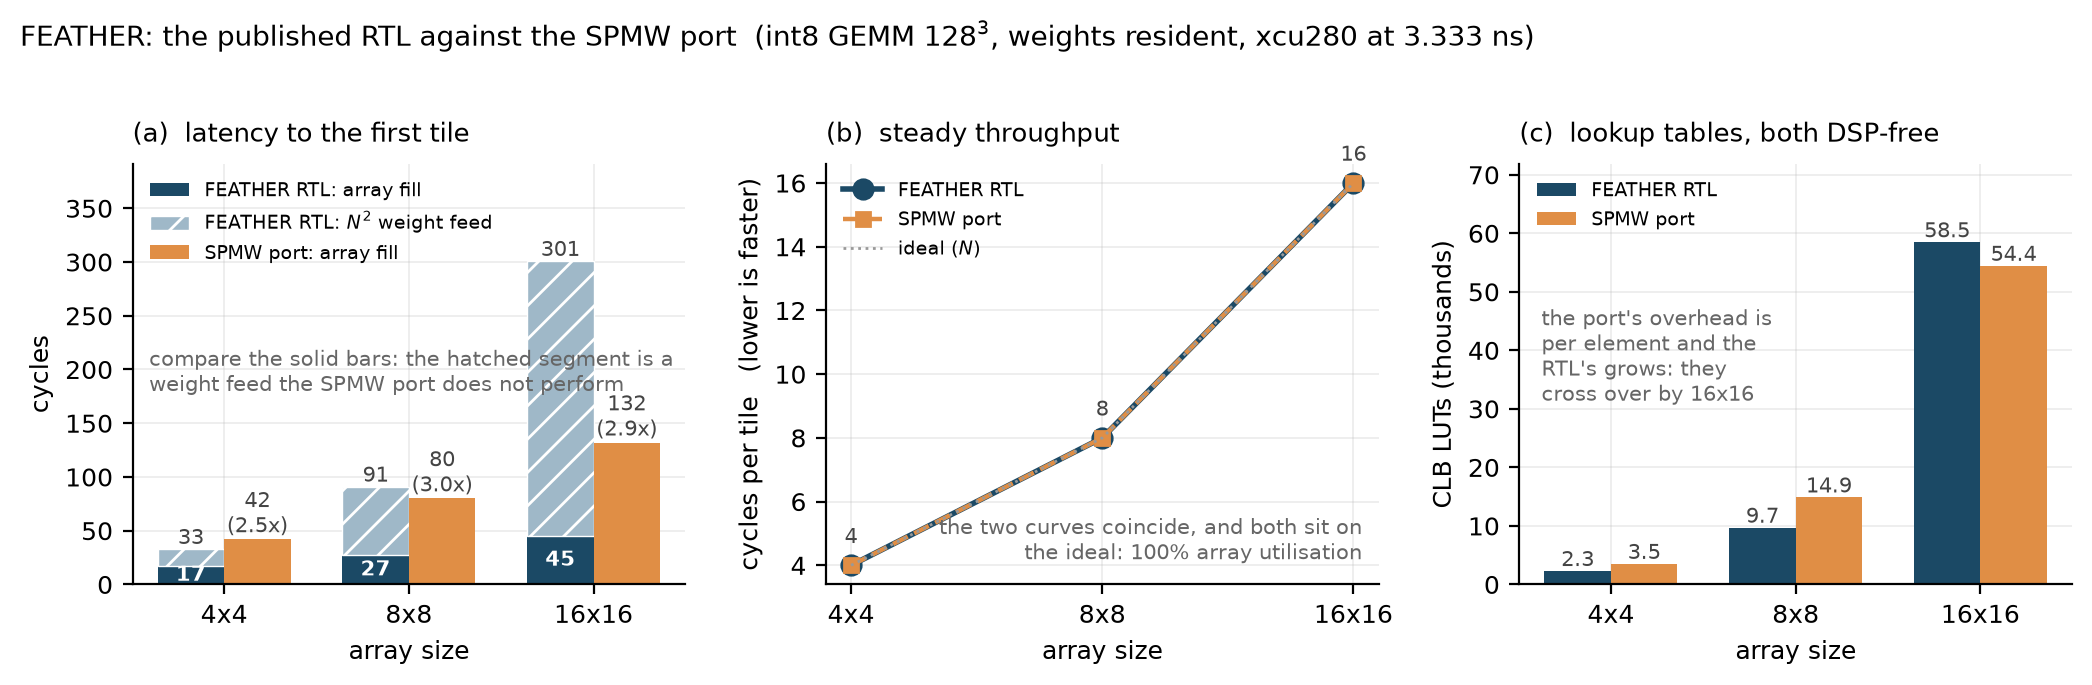
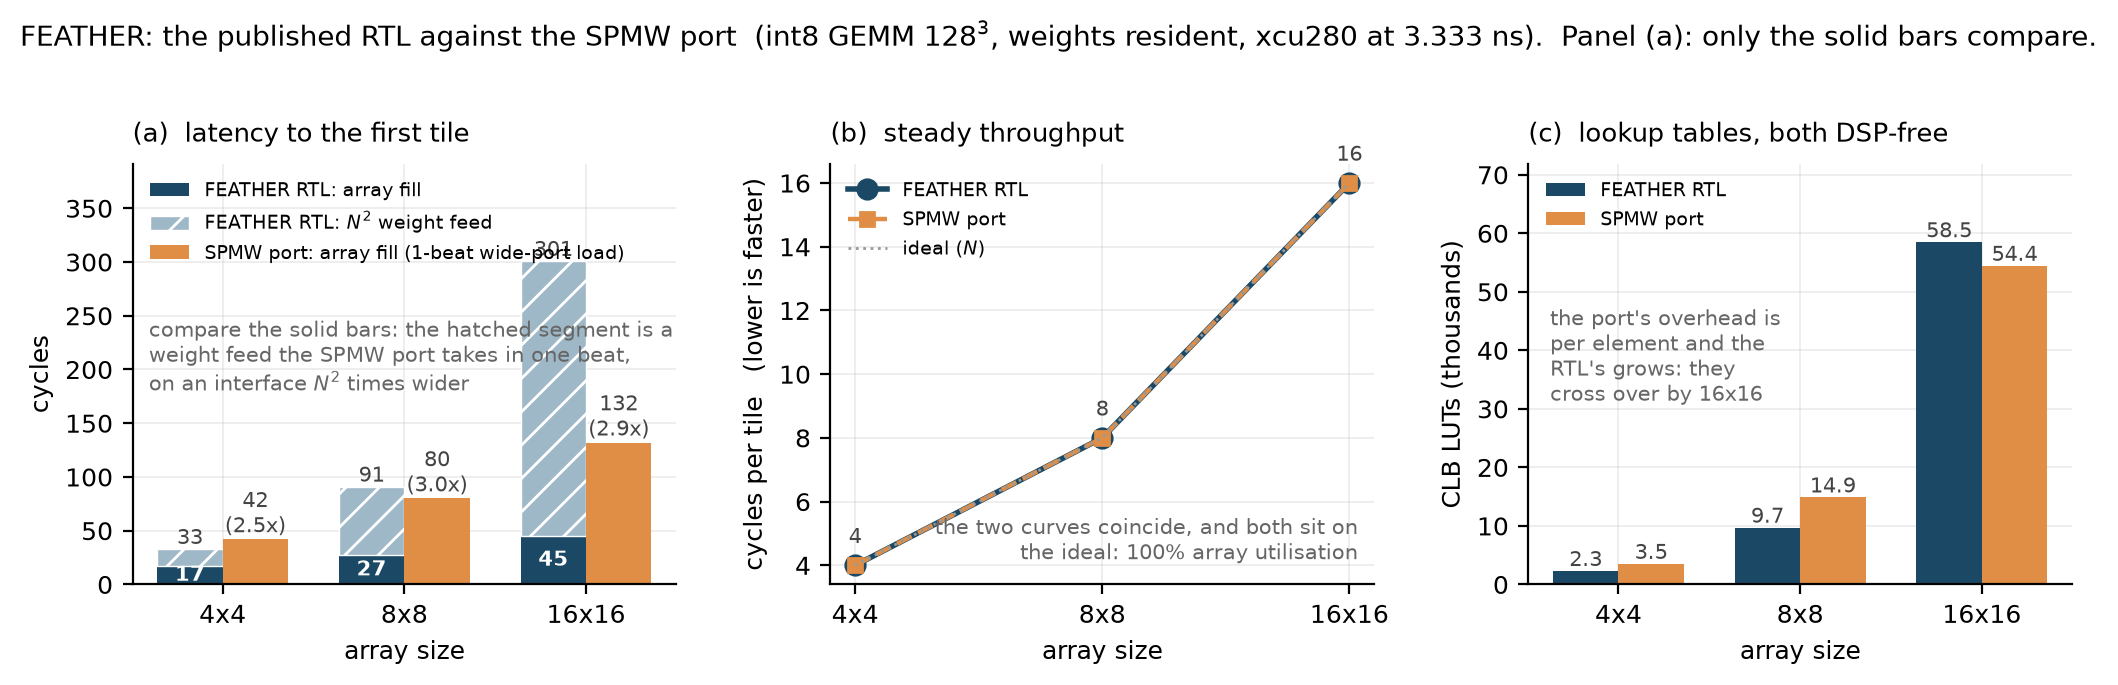
[SPMW] E4: the port does load its weights, on an interface N^2 times wider
I described `feather_stream_x`'s weights as "resident, no feed". That is
wrong. `spmw.MemIn` is not a build-time constant: the generated fabric
carries `pe_w_mem_dout [0:N^2/2-1]`, one wide port per element, and the
weights arrive through it. The load is one beat because the port is
enormous, not because there is no load.

Both designs move the same 8N^3 bits. The interfaces differ by N^2:

  N     SPMW port          width   FEATHER 8*DPE_COL_NUM   beats
  4     8 x 64 bits          512                      32   1 / 16
  8     32 x 128 bits      4,096                      64   1 / 64
  16    128 x 256 bits    32,768                     128   1 / 256

At 16x16 that is a 32,768-bit weight interface, which nothing on the device
can feed -- and the routed `spmw_harness` drives it with LFSRs, so SPMW's
area accounts for the storage but not the delivery, while FEATHER's includes
the controller, select chain and ping/pong buffers that deliver over a
narrow port.

So the fill column is a fair comparison and the others are not, for a
sharper reason than "SPMW skips the load". Closing it needs a
port-width-matched SPMW variant taking 8N bits a cycle, which does not
exist; until it does, the README says to quote the fill.

diff --git a/experiments/e4_feather/scripts/reporting/plot_e4_comparison.py b/experiments/e4_feather/scripts/reporting/plot_e4_comparison.py
@@ -67,7 +67,7 @@ def main():
     a.bar([i - w / 2 for i in x], rtl_feed, w, bottom=rtl_fill, color=FEED,
           hatch="//", edgecolor="white", linewidth=0.5,
           label="FEATHER RTL: $N^2$ weight feed")
-    a.bar([i + w / 2 for i in x], sp_fill, w, color=SPMW, label="SPMW port: array fill")
+    a.bar([i + w / 2 for i in x], sp_fill, w, color=SPMW, label="SPMW port: array fill (1-beat wide-port load)")
     for i, n in enumerate(SIZES):
         a.text(i - w / 2, rtl_fill[i] + rtl_feed[i], f"{rtl_fill[i]+rtl_feed[i]}",
                ha="center", va="bottom", fontsize=7.5, color="#444")
@@ -80,7 +80,8 @@ def main():
     a.set_ylim(0, max(rtl_fill[i] + rtl_feed[i] for i in range(3)) * 1.30)
     a.legend(fontsize=7, frameon=False, loc="upper left")
     a.annotate("compare the solid bars: the hatched segment is a\n"
-               "weight feed the SPMW port does not perform",
+               "weight feed the SPMW port takes in one beat,\n"
+               "on an interface $N^2$ times wider",
                xy=(0.03, 0.46), xycoords="axes fraction", fontsize=7.5,
                color="#666", ha="left")
 
@@ -127,7 +128,8 @@ def main():
 
     fig.suptitle(
         "FEATHER: the published RTL against the SPMW port  "
-        "(int8 GEMM 128$^3$, weights resident, xcu280 at 3.333 ns)",
+        "(int8 GEMM 128$^3$, weights resident, xcu280 at 3.333 ns).  "
+        "Panel (a): only the solid bars compare.",
         fontsize=10, y=1.02, x=0.01, ha="left",
     )
     fig.tight_layout()

diff --git a/experiments/e4_feather/README.md b/experiments/e4_feather/README.md
@@ -72,17 +72,17 @@ enough that the table gives it:
 | Array | | published loader | row-wise loader | SPMW port |
 |---|---|---:|---:|---:|
 | 4x4 | array fill, weights in place | 17 | **17** | 42 |
-| | + weight feed | 64 | **16** | none: resident |
+| | + weight feed | 64 | **16** | 1 beat (512-bit port) |
 | | = first output | 81 | **33** | 42 |
 | | completion | 131,149 | **131,101** | 131,110 |
 | | `cycles_per_tile` | 4.0 | 4.0 | 4.0 |
 | 8x8 | array fill, weights in place | 27 | **27** | 80 |
-| | + weight feed | 512 | **64** | none: resident |
+| | + weight feed | 512 | **64** | 1 beat (4,096-bit port) |
 | | = first output | 539 | **91** | 80 |
 | | completion | 33,299 | **32,851** | 32,840 |
 | | `cycles_per_tile` | 8.0 | 8.0 | 8.0 |
 | 16x16 | array fill, weights in place | 45 | **45** | 132 |
-| | + weight feed | 4,096 | **256** | none: resident |
+| | + weight feed | 4,096 | **256** | 1 beat (32,768-bit port) |
 | | = first output | 4,141 | **301** | 132 |
 | | completion | 12,317 | **8,477** | 8,308 |
 | | `cycles_per_tile` | 16.0 | 16.0 | 16.0 |
@@ -90,9 +90,39 @@ enough that the table gives it:
 **Read the first row, not the third.** The RTL's figure is measured from `F0`,
 the first cycle of its weight feed -- `first_output_cycles = done[0] - F0 + 1`
 in `e4_feather_gen.py` -- so it contains the feed. The SPMW variant is
-`feather_stream_x`, whose weights are a `spmw.MemIn`: resident before the clock
-starts, with no feed to contain. Comparing the two totals charges FEATHER for a
-load SPMW never performs.
+`feather_stream_x`, whose weights are a `spmw.MemIn`, and that is **not** a
+build-time constant: the generated fabric carries
+`pe_w_mem_dout [0:N²/2-1]`, one wide port per processing element, and the
+weights arrive through it. The load is one beat only because the port is
+enormous.
+
+### The weight interface is not the same, and this is the real asymmetry
+
+Both designs move the same `8N³` bits of weight. They move them through
+interfaces that differ by a factor of `N²`:
+
+| N | SPMW port | width | FEATHER `8 x DPE_COL_NUM` | ratio | beats: SPMW / FEATHER |
+|---:|---|---:|---:|---:|---|
+| 4 | 8 ports x 64 bits | 512 | 32 | 16x | 1 / 16 |
+| 8 | 32 ports x 128 bits | 4,096 | 64 | 64x | 1 / 64 |
+| 16 | 128 ports x 256 bits | 32,768 | 128 | 256x | 1 / 256 |
+
+So SPMW does not have a faster loader; it declares the **whole array's weight
+file as one parallel port** and receives it in a single beat. At 16x16 that is
+a 32,768-bit interface, which no memory system on the device can actually feed
+-- and the routed `spmw_harness` drives it with LFSRs, so nothing in SPMW's
+area accounts for feeding it either.
+
+Three consequences, and they should be read together:
+
+- **The fill column is a fair comparison.** Both arrays are computing with
+  weights in place, and it is the only column that is.
+- **The first-output and completion columns are not**, and not because SPMW
+  "skips" a load: because its load is one beat on a port `N²` times wider.
+- **The area column is affected too.** FEATHER's lookup tables include the
+  controller, the select daisy chain and the ping/pong buffers that deliver
+  weights over a narrow port. SPMW's include the storage but not the delivery,
+  because the delivery is a port someone else would have to build.
 
 The split is not a fit. The testbench defines `A_BASE = G + WLEN`, so tile 0's
 activations begin after the feed, and tile 0's first row lands at
@@ -116,11 +146,12 @@ either. The honest summary is the pair (`array fill`, `cycles_per_tile`): SPMW
 is 2.5-3.0x slower to fill and exactly as fast once full.
 
 **What the port cannot do**, and this is the finding underneath: SPMW's FEATHER
-port has no "load the weights once through a port, then compute" mode.
-`feather_stream_x` has them resident and `feather_stream` re-streams every
-operand per tile; neither matches the RTL's MODE 1. So the `+ weight feed` row
-cannot be filled for SPMW at all, and its absence is a gap in the port rather
-than an advantage.
+port has no "load the weights once through a *narrow* port, then compute" mode.
+`feather_stream_x` takes the whole file in one beat on an `N²`-times-wider
+interface and `feather_stream` re-streams every operand per tile; neither
+matches the RTL's MODE 1. Making this comparison honest end to end needs a
+port-width-matched SPMW variant -- weights arriving `8N` bits a cycle -- which
+does not exist yet. Until it does, quote the fill.
 
 The load itself lands exactly on the prediction. The feed is `N^2` cycles --
 16, 64, 256 -- and the first output moves earlier by exactly `N^3 - N^2`:
